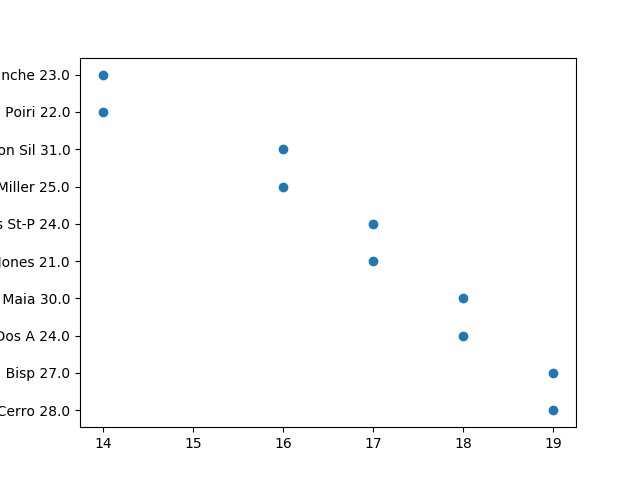
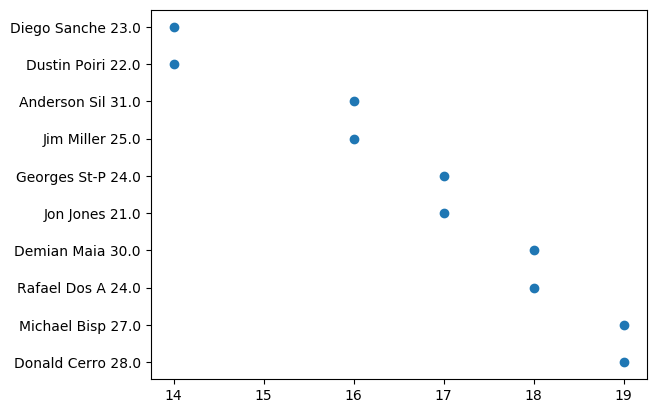
update readme

diff --git a/script.py b/script.py
@@ -51,7 +51,7 @@ def mostOldMostWins(df):
         value.append(fighter[elements]['wins'])
     fig, ax = plt.subplots()
     ax.scatter(value,fighterTitle)
-    plt.savefig(PATH + 'mostOld.png')
+    plt.savefig(PATH + 'mostOld.png',bbox_inches='tight')
     return
 
 

diff --git a/readme.md b/readme.md
@@ -7,7 +7,11 @@ This project is a proof of concept my approach with data science.
 
 For every fighter between the proposed years we have a median of the years.
 
-![Age media]("https://github.com/antoniott15/ufcDataAnalisys/blob/master/plots/avrAge.png")
+![Age media]("https://github.com/antoniott15/ufcDataAnalisys/blob/master/plots/ageOfFigthers.png")
+
+The most oldest fighter and with most wins are 'Damian Maia' with 30 years old and the Youngest are 'Dustin Poiri' with 14 wins.
+
+![YoungestOldest]("https://github.com/antoniott15/ufcDataAnalisys/blob/master/plots/mostOld.png")
 
 
 # Data 
